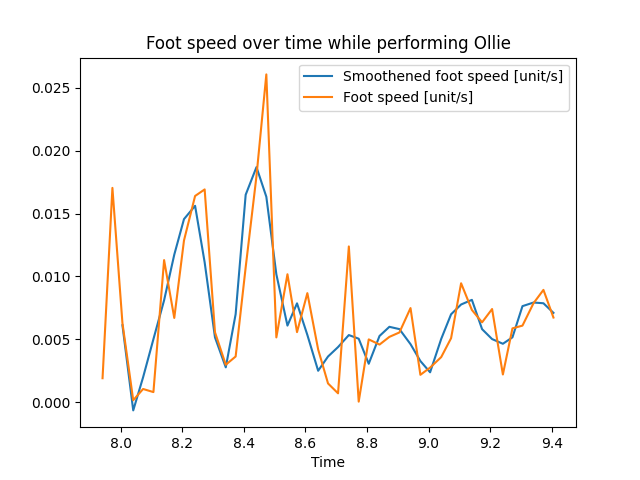
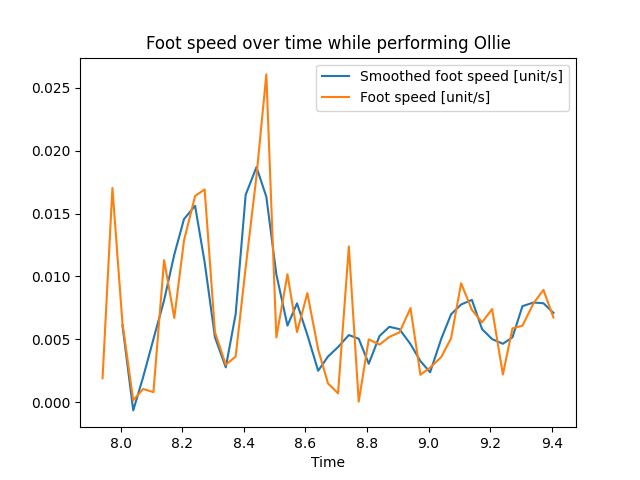
fix: typo in plots

Changed region(s): [[0.5312, 0.125, 0.875, 0.2188], [0.4688, 0.1562, 0.5, 0.2188]]

diff --git a/plot_app.py b/plot_app.py
@@ -33,11 +33,11 @@ for entry in os.scandir(data_directory):
     )
     print(f"Loaded file: {filepath}")
 
-    # angle.add_and_plot(df)
-    point_floor_distance.add_and_plot(df, "FootRight")
+    angle.add_and_plot(df)
+    #point_floor_distance.add_and_plot(df, "HipRight")
     # point_floor_distance.save_strip_to_jump(df, INTERIM_TIME_DATA_DIR, selected_subfolder, entry.name)
-    # point_speed.add_and_plot(df)
-    # point_point_distance.add_and_plot(df)
+    #point_speed.add_and_plot(df)
+    #point_point_distance.add_and_plot(df)
 
     plt.show(block=False)
     response = input("Proceed with next file? (Y/n): ")

diff --git a/app/scripts/point_point_distance.py b/app/scripts/point_point_distance.py
@@ -36,7 +36,7 @@ def add_and_plot(df: pd.DataFrame, point_name_a="FootLeft", point_name_b="FootRi
         kind="line",
         x="Time",
         y=f"{point_name_a}_{point_name_b}_distance_smooth",
-        label=f"Smoothened {point_name_a}-{point_name_b} distance [unit]",
+        label=f"Smoothed {point_name_a}-{point_name_b} distance [unit]",
     )
     df.plot(
         kind="line",

diff --git a/app/scripts/point_floor_distance.py b/app/scripts/point_floor_distance.py
@@ -141,7 +141,7 @@ def add_and_plot(df: pd.DataFrame, point_name):
         kind="line",
         x="Time",
         y=f"{point_name}_floor_distance_smooth",
-        label=f"Smoothened {point_name}-floor distance [unit]",
+        label=f"Smoothed {point_name}-floor distance [unit]",
     )
     df.plot(
         kind="line",

diff --git a/app/scripts/point_speed.py b/app/scripts/point_speed.py
@@ -25,7 +25,7 @@ def add_and_plot(df: pd.DataFrame, point_name="FootRight"):
         kind="line",
         x="Time",
         y="foot_speed_smooth",
-        label="Smoothened foot speed [unit/s]",
+        label="Smoothed foot speed [unit/s]",
     )
     df.plot(
         kind="line",

diff --git a/app/scripts/angle.py b/app/scripts/angle.py
@@ -70,7 +70,7 @@ def add_and_plot(df: pd.DataFrame):
         kind="line",
         x="Time",
         y="crotch_angle_smooth",
-        label="Smoothened crotch angle [deg]",
+        label="Smoothed crotch angle [deg]",
     )
     df.plot(
         kind="line",
